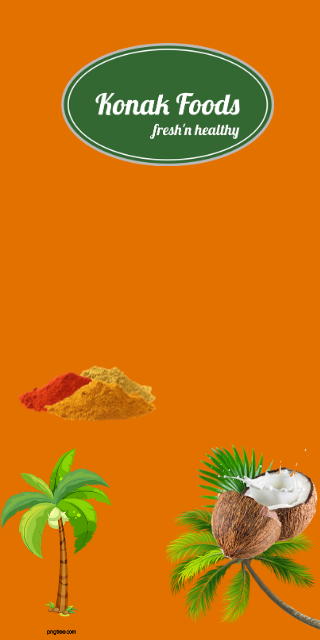
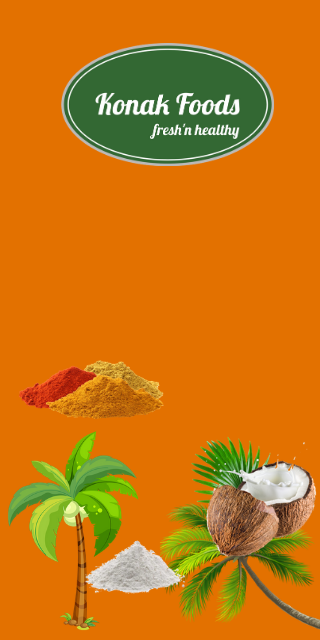
adjustments for mobiles

Changed region(s): [[0.0, 0.5625, 1.0, 1.0]]

diff --git a/css/style.css b/css/style.css
@@ -34,8 +34,8 @@ a {
   }
 
 .text-black {
-  color: #000; }
-
+  color: #000;
+}
 .site-wrap:before {
   -webkit-transition: .3s all ease-in-out;
   -o-transition: .3s all ease-in-out;
@@ -774,6 +774,7 @@ color: #777777;}
 }
 .site-blocks-cover{
   background-image: url(../img/banner-bg.png);
+ 
 }
 
 @media (max-width: 480px) {
@@ -787,7 +788,11 @@ color: #777777;}
   } 
   
   .full-bg-image{
-    padding-top: 150px!important;
+    position: absolute;
+    top:50%;
+    left: 0%;
+    text-align: center!important;
+    -webkit-transform:translate(0%, -50%);
   }
 
   .site-blocks-cover{
